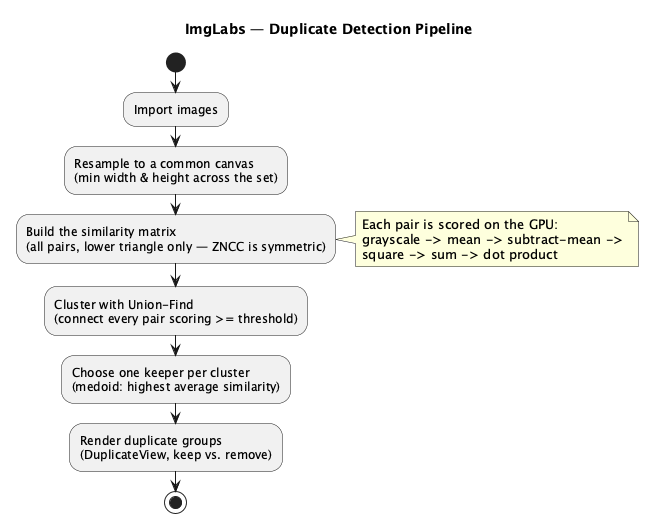
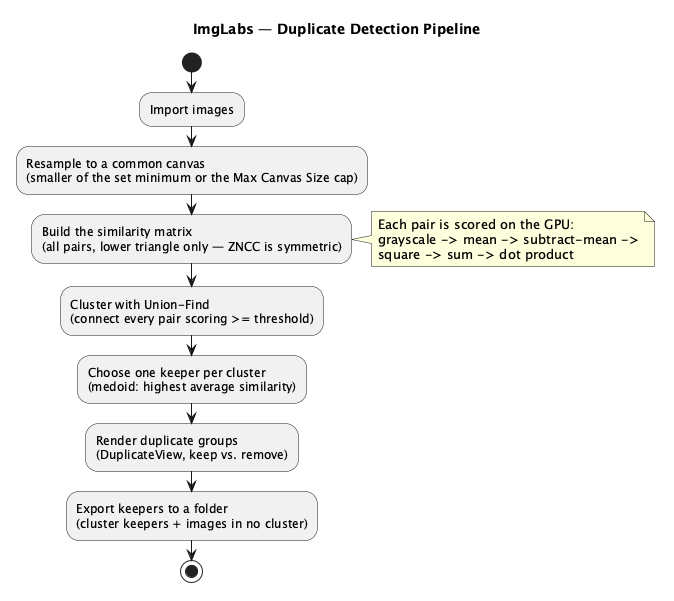
Updated documentation with app screenshot, included blurb about max canvas size, updated macOS requirements

Changed region(s): [[0.0304, 0.0301, 0.9726, 0.9925]]

diff --git a/README.md b/README.md
@@ -2,11 +2,15 @@
 
 **A GPU-accelerated duplicate-image finder for macOS — built on Swift, SwiftUI, and Metal.**
 
-ImgLabs finds duplicate and near-duplicate images. It scores every pair of imported images with **Zero-Normalized Cross-Correlation (ZNCC)** then clusters the matches so near-identical shots can be reviewed and thinned down to a single keeper. The entire numerical pipeline runs as compute shaders on the GPU: comparing two 12-megapixel images is tens of millions of floating-point operations, and ImgLabs pushes that work off the CPU onto Metal, where it runs in parallel across thousands of threads.
+ImgLabs finds duplicate and near-duplicate images. It scores every pair of imported images with **Zero-Normalized Cross-Correlation (ZNCC)** then clusters the matches so near-identical shots can be reviewed and thinned down to a single keeper. The entire numerical pipeline runs as compute shaders on the GPU: comparing two 12-megapixel images is a lot of floating-point operations, ImgLabs pushes that work off the CPU onto Metal, where it runs in parallel across thousands of threads.
 
 Powering the app is the **Kernel Engine**: a reusable, thread-safe framework for authoring, batching, and dispatching Metal compute kernels with strongly-typed, `async`/`await`-friendly results. The engine is deliberately decoupled from ImgLabs itself and can be dropped into any Metal project that needs a clean abstraction over raw GPU plumbing.
 
-> **Status:** Usable end to end — import images, press **Analyze**, and review the duplicate clusters with an adjustable sensitivity threshold. Active development continues on additional operations and UI polish.
+> **Status:** Usable end to end — import images, press **Analyze**, review the duplicate clusters with an adjustable sensitivity threshold, and export the keepers. Active development continues on additional operations and UI polish.
+
+![ImgLabs finding duplicate images](ImgLabs/Images/Screenshot1.png)
+
+*Duplicate groups on the left (green = keep, red = flagged with its similarity to the keeper); import/analyze controls, status, and the memory-vs-accuracy Max Canvas Size option on the right.*
 
 ---
 
@@ -14,6 +18,8 @@ Powering the app is the **Kernel Engine**: a reusable, thread-safe framework for
 
 - **Duplicate detection** — imported images are scored pairwise, clustered with union-find, and grouped into keep/remove sets, with one representative image (the medoid) kept per cluster.
 - **Interactive sensitivity** — a threshold slider re-clusters the results live, trading precision for recall without recomputing the similarity matrix.
+- **One-click export** — copies each cluster's keeper plus every image that belongs to no cluster into a chosen folder, leaving the flagged duplicates behind (with automatic filename de-duplication).
+- **Bounded memory** — a Max Canvas Size control caps the comparison resolution (512–2048 px per side), so per-image memory stays fixed regardless of how large the originals (e.g. RAW) are.
 - **GPU-accelerated ZNCC** — every stage (grayscale, mean, mean-subtraction, squaring, summation, dot product) runs as a Metal kernel. No per-pixel work happens on the CPU.
 - **Upload-once buffer cache** — source pixel data reused across the all-pairs matrix is uploaded to the GPU a single time via a reference-identity `BufferCache` actor, instead of once per comparison.
 - **Structured concurrency** — Metal objects aren't uniformly thread-safe, so the engine leans on Swift `actor`s to serialize access, caches compiled pipeline states, and confines command encoding to a single thread across `await` boundaries.
@@ -21,9 +27,8 @@ Powering the app is the **Kernel Engine**: a reusable, thread-safe framework for
 
 ## Requirements
 
-- macOS with a Metal-capable GPU
-- Xcode (uses recent SwiftUI APIs, including the Liquid Glass `glassEffect` material)
-- Swift concurrency (`actor` / `async`/`await`)
+- **macOS 26.2 (Tahoe) or later**, on a Metal-capable Mac
+- **Xcode 26 or later** to build (Swift language mode 5 or later).
 
 ## Building & running
 
@@ -45,13 +50,15 @@ ImgLabs is organized into layers, each depending only on the one beneath it: the
 
 ### From import to duplicates
 
-A run flows from imported files to reviewable duplicate groups. Because imported images can differ in size, they're first resampled onto a common canvas (the smallest width/height across the set) so the pixel-wise correlation compares equal-length arrays. The GPU then builds an all-pairs similarity matrix — computing only the lower triangle, since ZNCC is symmetric — which is clustered on the CPU into duplicate groups.
+A run flows from imported files to reviewable duplicate groups. Because imported images can differ in size, they're first resampled onto a common canvas — the smaller of the set's minimum dimensions or a user-set **Max Canvas Size** cap (512–2048 px per side) — so the pixel-wise correlation compares equal-length arrays while keeping per-image memory bounded regardless of the originals' resolution. The GPU then builds an all-pairs similarity matrix — computing only the lower triangle, since ZNCC is symmetric — which is clustered on the CPU into duplicate groups.
 
 ![Duplicate detection pipeline](ImgLabs/Diagrams/Pipeline/duplicatePipeline.png)
 
 *Source: [`duplicatePipeline.puml`](ImgLabs/Diagrams/Pipeline/duplicatePipeline.puml).*
 
 Clustering uses a **union-find** (disjoint-set) structure: every image pair scoring at or above the threshold is connected, and connected images collapse into a single group (`DuplicateFinder.swift`). For each group, ImgLabs keeps the **medoid** — the image with the highest average similarity to the rest of its cluster — and flags the others for removal. The threshold is a live control, so re-clustering is instant and never re-runs the GPU work.
+
+Reviewed results can be exported: **Export** copies every kept image — each cluster's keeper plus all images that belong to no cluster — into a chosen folder, skipping the flagged duplicates. Copies happen off the main thread, filename collisions are resolved automatically (`photo-1.jpg`), and one unreadable source is recorded and skipped rather than aborting the run.
 
 ### The algorithm: ZNCC
 
@@ -112,7 +119,7 @@ The protocols and actors that make up the engine, and how they relate:
 ImgLabs/
 ├── ImgLabsApp.swift             App entry point
 ├── ContentView.swift            SwiftUI UI, app-state models, import/analyze flow
-├── DuplicateView.swift          Renders duplicate clusters + the sensitivity slider
+├── DuplicateView.swift          Duplicate-cluster UI, sensitivity slider, and keeper export
 ├── ImageData.swift              Wraps a CGImage; resamples to a canvas; exposes RGBA as an MTLBuffer
 ├── ImageError.swift             Image-related error types
 ├── ImageCompute/
